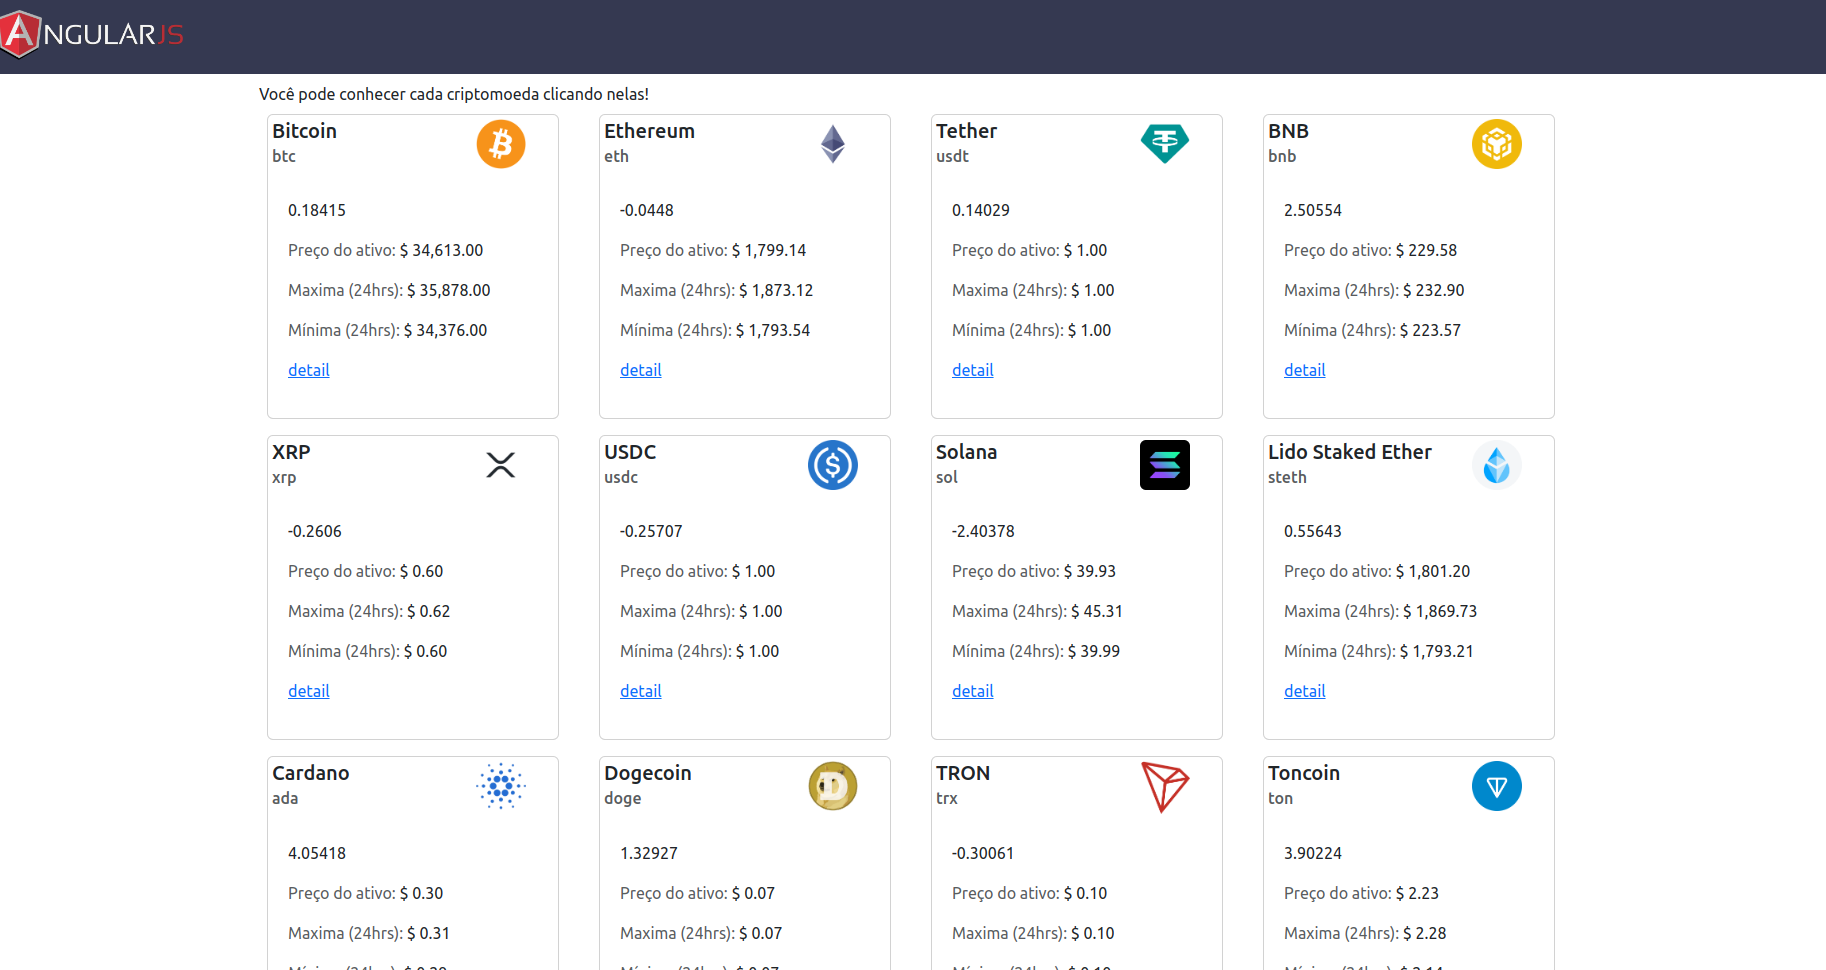
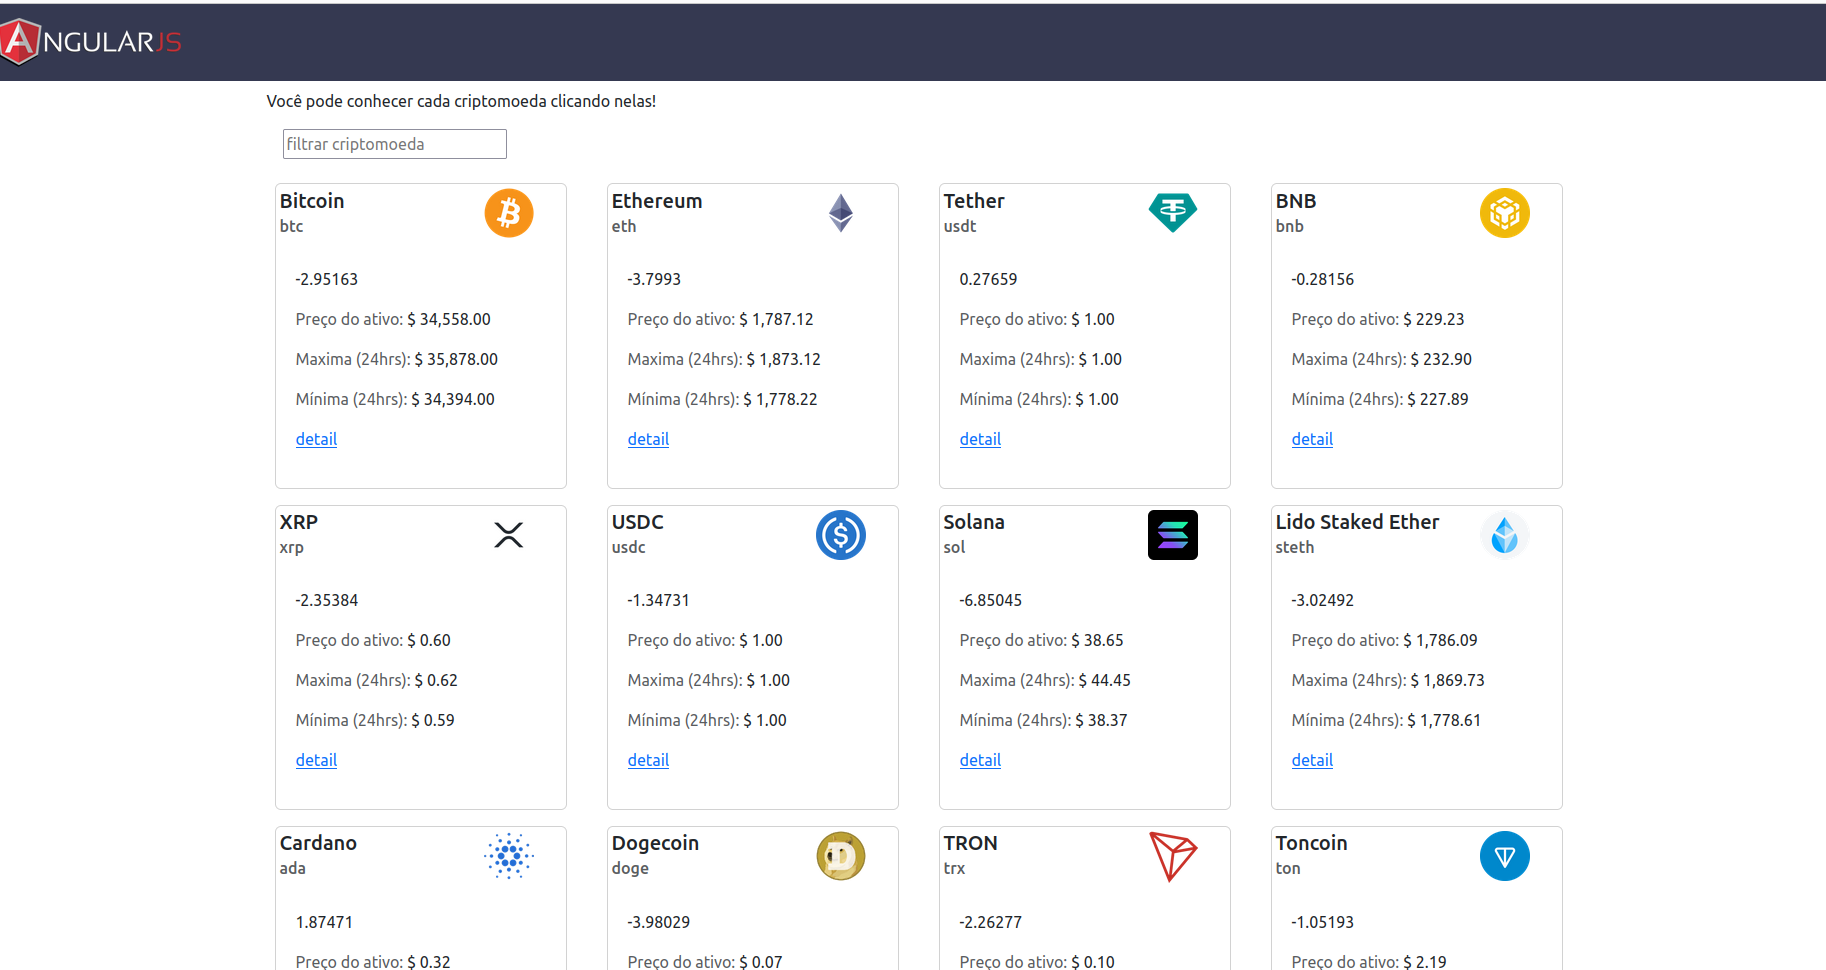
feat: criando uma busca de criptomoedas

diff --git a/app/modules/controllers/dashboard.controller.js b/app/modules/controllers/dashboard.controller.js
@@ -3,6 +3,7 @@ app.controller('DashboardController', DashboardController);
 function DashboardController($scope, apiService) {
     var vm = $scope;
     vm.coins = [];
+    vm.bufferCoins = [];
     vm.pagina = 1;
     vm.numMoedas = 20;
 
@@ -16,7 +17,7 @@ function DashboardController($scope, apiService) {
             .then(result => {
                 
                 if(result.data) {
-                    vm.coins = [...vm.coins, ...result.data];
+                    vm.coins = vm.bufferCoins = [...vm.coins, ...result.data];
                     vm.pagina++;
                     apiService.setCoinsStorage(vm.coins);
                 }
@@ -26,6 +27,16 @@ function DashboardController($scope, apiService) {
 
     vm.loadMore = () => {
         vm.carregarDados();
+    }
+
+    vm.applyFilter = (search) => {
+        if(search && vm.bufferCoins) {
+            vm.bufferCoins = vm.coins.filter((item) => item.name.toUpperCase().includes(search.toUpperCase()));
+        }
+
+        if(search === '') {
+            vm.bufferCoins = vm.coins;
+        }
     }
 
     vm.init();

diff --git a/app/modules/templates/dashboard.html b/app/modules/templates/dashboard.html
@@ -3,8 +3,20 @@
         Você pode conhecer cada criptomoeda clicando nelas!
     </div>
 
+    <div class="row mt-3 mb-3 m-1" ng-if="coins">
+        <div class="col-12">
+            <input
+                type="text"
+                placeholder="filtrar criptomoeda"
+                ng-model="search"
+                ng-change="applyFilter(search)"
+            />
+        </div>
+    </div>
+
+
     <div class="row" ng-if="coins">
-        <div class="col-3" ng-repeat="coin in coins">
+        <div class="col-3" ng-repeat="coin in bufferCoins">
             <div class="card p-1 m-2">
                 <div class="card-title">
                     <div class="row">
@@ -52,7 +64,7 @@
         </div>
     </div>
 
-    <div class="d-flex justify-content-center" ng-if="coins.length != 0">
+    <div class="d-flex justify-content-center" ng-if="bufferCoins.length != 0">
         <button ng-click="loadMore()" class="btn btn-secondary">
             Carregar mais
         </button>
